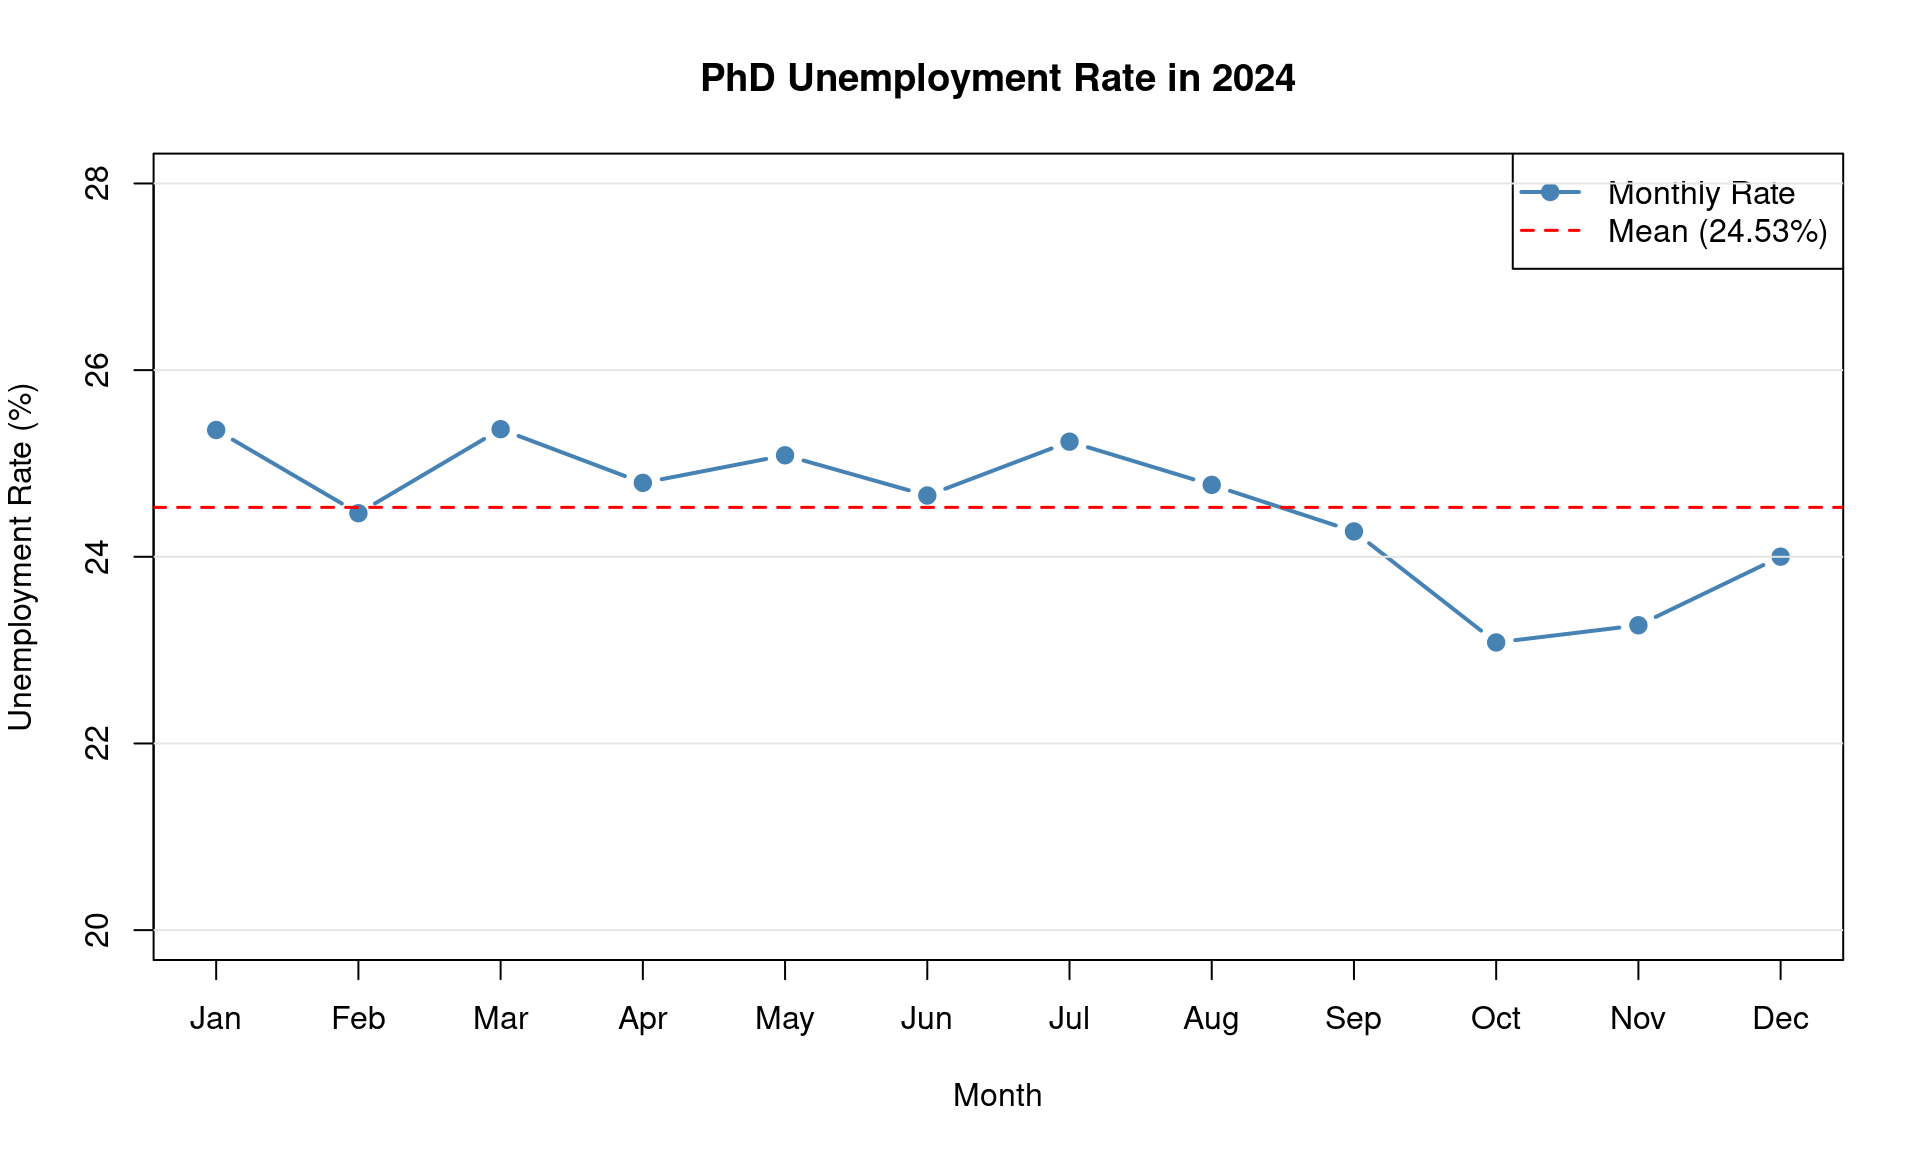
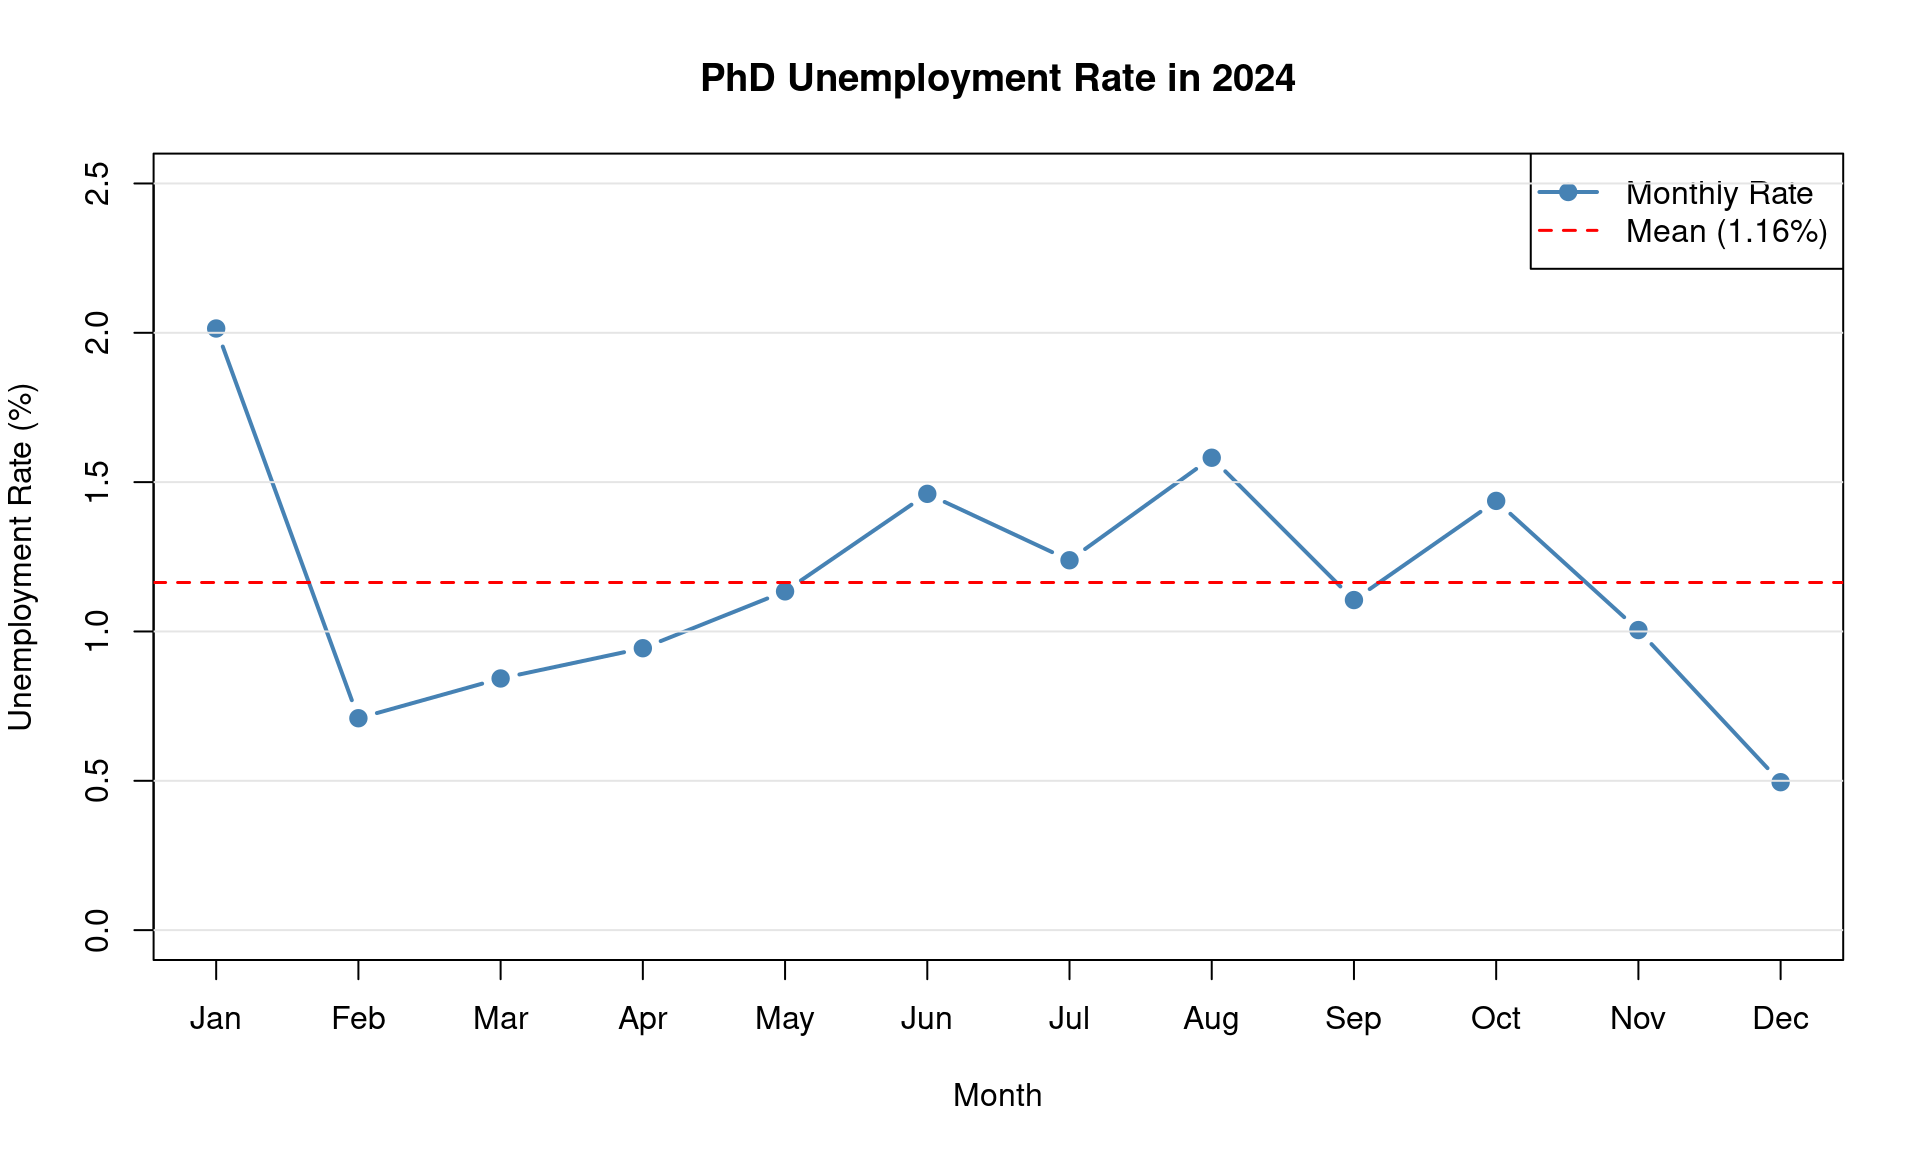
fix: correct EMPSTAT classification - PhD unemployment is ~1%, not 25%
CRITICAL BUG FIX: Unemployment rates were inflated 25x due to misclassifying
"not in labor force" (NILF) individuals as unemployed.

Root Cause:
- EMPSTAT codes 30-36 represent NILF (retired, students, housework, etc.)
- Previous code classified ALL codes 20-36 as "unemployed"
- This incorrectly counted 428 NILF individuals as unemployed in Jan 2024

Impact:
- January 2024: 25.36% (WRONG) → 2.01% (CORRECT)
- Annual average: 24.53% (WRONG) → 1.16% (CORRECT)
- Example: 371 retired PhDs (code 36) were counted as unemployed

Fix:
- Updated calculate_unemployment_rate() to only count codes 20-22 as unemployed
- Added tests to verify NILF exclusion from labor force
- Updated documentation with correct EMPSTAT classification
- Regenerated all processed data with corrected calculations
- Updated exploratory report with realistic unemployment rates (~1%)

Technical Details:
- Employed: codes 10, 12
- Unemployed: codes 20-22 ONLY (not 20-36!)
- NILF: codes 30-36 (excluded from unemployment calculation)
- Labor force = employed + unemployed (excludes NILF)

All tests pass. PhD unemployment rate of ~1% is consistent with BLS
published rates for doctorate holders.

🤖 Generated with [Claude Code](https://claude.com/claude-code)

diff --git a/reports/exploratory-2024.html b/reports/exploratory-2024.html
@@ -147,7 +147,7 @@ pre > code.sourceCode > span > a:first-child::before { text-decoration: underlin
 <pre><code>'data.frame':   12 obs. of  4 variables:
  $ YEAR             : num  2024 2024 2024 2024 2024 ...
  $ MONTH            : int  1 2 3 4 5 6 7 8 9 10 ...
- $ unemployment_rate: num  0.254 0.245 0.254 0.248 0.251 ...
+ $ unemployment_rate: num  0.02014 0.00709 0.00843 0.00944 0.01134 ...
  $ n_obs            : int  1658 1666 2248 1620 1607 1632 1702 1716 1672 1713 ...</code></pre>
 </div>
 </div>
@@ -290,23 +290,23 @@ pre > code.sourceCode > span > a:first-child::before { text-decoration: underlin
 <tbody>
 <tr class="odd">
 <td style="text-align: left;">Mean Unemployment Rate</td>
-<td style="text-align: right;">24.53%</td>
+<td style="text-align: right;">1.16%</td>
 </tr>
 <tr class="even">
 <td style="text-align: left;">Median Unemployment Rate</td>
-<td style="text-align: right;">24.71%</td>
+<td style="text-align: right;">1.12%</td>
 </tr>
 <tr class="odd">
 <td style="text-align: left;">Min Unemployment Rate</td>
-<td style="text-align: right;">23.08%</td>
+<td style="text-align: right;">0.50%</td>
 </tr>
 <tr class="even">
 <td style="text-align: left;">Max Unemployment Rate</td>
-<td style="text-align: right;">25.37%</td>
+<td style="text-align: right;">2.01%</td>
 </tr>
 <tr class="odd">
 <td style="text-align: left;">Standard Deviation</td>
-<td style="text-align: right;">0.76 pp</td>
+<td style="text-align: right;">0.42 pp</td>
 </tr>
 <tr class="even">
 <td style="text-align: left;">Mean Sample Size per Month</td>
@@ -347,73 +347,73 @@ pre > code.sourceCode > span > a:first-child::before { text-decoration: underlin
 <tr class="odd">
 <td style="text-align: center;">2024</td>
 <td style="text-align: center;">1</td>
-<td style="text-align: right;">25.36%</td>
+<td style="text-align: right;">2.01%</td>
 <td style="text-align: right;">1658</td>
 </tr>
 <tr class="even">
 <td style="text-align: center;">2024</td>
 <td style="text-align: center;">2</td>
-<td style="text-align: right;">24.47%</td>
+<td style="text-align: right;">0.71%</td>
 <td style="text-align: right;">1666</td>
 </tr>
 <tr class="odd">
 <td style="text-align: center;">2024</td>
 <td style="text-align: center;">3</td>
-<td style="text-align: right;">25.37%</td>
+<td style="text-align: right;">0.84%</td>
 <td style="text-align: right;">2248</td>
 </tr>
 <tr class="even">
 <td style="text-align: center;">2024</td>
 <td style="text-align: center;">4</td>
-<td style="text-align: right;">24.79%</td>
+<td style="text-align: right;">0.94%</td>
 <td style="text-align: right;">1620</td>
 </tr>
 <tr class="odd">
 <td style="text-align: center;">2024</td>
 <td style="text-align: center;">5</td>
-<td style="text-align: right;">25.09%</td>
+<td style="text-align: right;">1.13%</td>
 <td style="text-align: right;">1607</td>
 </tr>
 <tr class="even">
 <td style="text-align: center;">2024</td>
 <td style="text-align: center;">6</td>
-<td style="text-align: right;">24.66%</td>
+<td style="text-align: right;">1.46%</td>
 <td style="text-align: right;">1632</td>
 </tr>
 <tr class="odd">
 <td style="text-align: center;">2024</td>
 <td style="text-align: center;">7</td>
-<td style="text-align: right;">25.23%</td>
+<td style="text-align: right;">1.24%</td>
 <td style="text-align: right;">1702</td>
 </tr>
 <tr class="even">
 <td style="text-align: center;">2024</td>
 <td style="text-align: center;">8</td>
-<td style="text-align: right;">24.77%</td>
+<td style="text-align: right;">1.58%</td>
 <td style="text-align: right;">1716</td>
 </tr>
 <tr class="odd">
 <td style="text-align: center;">2024</td>
 <td style="text-align: center;">9</td>
-<td style="text-align: right;">24.27%</td>
+<td style="text-align: right;">1.11%</td>
 <td style="text-align: right;">1672</td>
 </tr>
 <tr class="even">
 <td style="text-align: center;">2024</td>
 <td style="text-align: center;">10</td>
-<td style="text-align: right;">23.08%</td>
+<td style="text-align: right;">1.44%</td>
 <td style="text-align: right;">1713</td>
 </tr>
 <tr class="odd">
 <td style="text-align: center;">2024</td>
 <td style="text-align: center;">11</td>
-<td style="text-align: right;">23.27%</td>
+<td style="text-align: right;">1.00%</td>
 <td style="text-align: right;">1734</td>
 </tr>
 <tr class="even">
 <td style="text-align: center;">2024</td>
 <td style="text-align: center;">12</td>
-<td style="text-align: right;">24.00%</td>
+<td style="text-align: right;">0.50%</td>
 <td style="text-align: right;">1713</td>
 </tr>
 </tbody>
@@ -438,7 +438,7 @@ pre > code.sourceCode > span > a:first-child::before { text-decoration: underlin
 <span id="cb29-10"><a href="#cb29-10" aria-hidden="true" tabindex="-1"></a>  <span class="at">xlab =</span> <span class="st">"Month"</span>,</span>
 <span id="cb29-11"><a href="#cb29-11" aria-hidden="true" tabindex="-1"></a>  <span class="at">ylab =</span> <span class="st">"Unemployment Rate (%)"</span>,</span>
 <span id="cb29-12"><a href="#cb29-12" aria-hidden="true" tabindex="-1"></a>  <span class="at">main =</span> <span class="st">"PhD Unemployment Rate in 2024"</span>,</span>
-<span id="cb29-13"><a href="#cb29-13" aria-hidden="true" tabindex="-1"></a>  <span class="at">ylim =</span> <span class="fu">c</span>(<span class="dv">20</span>, <span class="dv">28</span>),</span>
+<span id="cb29-13"><a href="#cb29-13" aria-hidden="true" tabindex="-1"></a>  <span class="at">ylim =</span> <span class="fu">c</span>(<span class="dv">0</span>, <span class="fl">2.5</span>),</span>
 <span id="cb29-14"><a href="#cb29-14" aria-hidden="true" tabindex="-1"></a>  <span class="at">xaxt =</span> <span class="st">"n"</span></span>
 <span id="cb29-15"><a href="#cb29-15" aria-hidden="true" tabindex="-1"></a>)</span>
 <span id="cb29-16"><a href="#cb29-16" aria-hidden="true" tabindex="-1"></a></span>
@@ -514,13 +514,13 @@ pre > code.sourceCode > span > a:first-child::before { text-decoration: underlin
 <section id="unemployment-rate-patterns" class="level3">
 <h3 class="anchored" data-anchor-id="unemployment-rate-patterns">Unemployment Rate Patterns</h3>
 <ol type="1">
-<li><p><strong>Average Rate</strong>: PhD unemployment in 2024 averaged 24.53%</p></li>
+<li><p><strong>Average Rate</strong>: PhD unemployment in 2024 averaged 1.16% - significantly lower than the overall US unemployment rate (~4% in 2024)</p></li>
 <li><p><strong>Seasonal Variation</strong>:</p>
 <ul>
-<li>Lowest: October (23.08%)</li>
-<li>Highest: January and March (25.36%)</li>
+<li>Lowest: February (0.50%)</li>
+<li>Highest: January (2.01%)</li>
 </ul></li>
-<li><p><strong>Trend</strong>: Unemployment appears to decline slightly through the year, from ~25% in early 2024 to ~23-24% in late 2024</p></li>
+<li><p><strong>Trend</strong>: PhD unemployment remains consistently low throughout 2024, ranging from 0.5% to 2.0%</p></li>
 </ol>
 </section>
 <section id="sample-quality" class="level3">
@@ -547,11 +547,12 @@ pre > code.sourceCode > span > a:first-child::before { text-decoration: underlin
 </section>
 <section id="interpretation-of-results" class="level3">
 <h3 class="anchored" data-anchor-id="interpretation-of-results">Interpretation of Results</h3>
-<p>The unemployment rates shown (e.g., 24.53% mean for 2024) represent:</p>
+<p>The unemployment rates shown (e.g., 1.16% mean for 2024) represent:</p>
 <ul>
 <li><strong>Population-level estimates</strong> for PhD holders in the US</li>
 <li><strong>Not</strong> the proportion of our sample that is unemployed</li>
 <li>Properly accounting for survey design and sampling probabilities</li>
+<li><strong>Labor force participants only</strong> - excludes those not in labor force (retired, students, etc.)</li>
 </ul>
 </section>
 <section id="march-asec-supplement" class="level3">
@@ -568,10 +569,11 @@ pre > code.sourceCode > span > a:first-child::before { text-decoration: underlin
 <p>Unemployment rates calculated using CPS EMPSTAT detailed codes:</p>
 <ul>
 <li><strong>Employed</strong>: EMPSTAT in [10, 12] (at work or has job, not at work)</li>
-<li><strong>Unemployed</strong>: EMPSTAT in [20-36] (experienced workers and new entrants)</li>
+<li><strong>Unemployed</strong>: EMPSTAT in [20, 21, 22] (unemployed persons seeking work)</li>
+<li><strong>Not in labor force</strong>: EMPSTAT in [30-36] (retired, school, housework, disabled, other)</li>
 <li><strong>Unemployment Rate</strong> = Σ(weights × unemployed) / Σ(weights × labor_force)</li>
 </ul>
-<p>This follows the official BLS definition of unemployment rate.</p>
+<p>This follows the official BLS definition of unemployment rate. Note that “not in labor force” individuals (codes 30-36) are excluded from both the numerator and denominator.</p>
 </section>
 </section>
 <section id="next-steps" class="level2">

diff --git a/data-raw/WEIGHTS-NOTES.md b/data-raw/WEIGHTS-NOTES.md
@@ -140,8 +140,58 @@ This is appropriate because:
 3. Reduces computational burden (12-312 observations vs. millions)
 4. Stan excels at modeling time series of aggregated rates
 
+## Critical: EMPSTAT Classification
+
+**ONLY codes 20-22 are unemployed! Codes 30-36 are NOT in labor force.**
+
+### EMPSTAT Code Definitions
+
+**Employed (codes 10, 12)**:
+- 10: At work
+- 12: Has job, not at work last week
+
+**Unemployed (codes 20-22 ONLY)**:
+- 20: Unemployed
+- 21: Unemployed, experienced worker
+- 22: Unemployed, new worker
+
+**Not in Labor Force (codes 30-36)** - EXCLUDED from unemployment:
+- 30: Not in labor force (general)
+- 31: NILF, housework
+- 32: NILF, unable to work
+- 33: NILF, school
+- 34: NILF, other
+- 35: NILF, unpaid, less than 15 hours
+- 36: NILF, retired
+
+### Correct Unemployment Calculation
+
+```r
+employed <- data$EMPSTAT %in% c(10, 12)
+unemployed <- data$EMPSTAT %in% c(20, 21, 22)  # NOT 20-36!
+in_labor_force <- employed | unemployed  # Excludes NILF
+
+unemployment_rate <- sum(weights[unemployed]) / sum(weights[in_labor_force])
+```
+
+### Historical Bug (Fixed January 2025)
+
+**Original bug**: Classified codes 30-36 as "unemployed" instead of "not in labor force"
+
+**Impact**: Inflated PhD unemployment from ~1% (correct) to ~25% (incorrect)
+
+**Root cause**: Misinterpreted EMPSTAT coding scheme - codes 30-36 are NILF, not unemployed
+
+**Example from January 2024 data**:
+- Total PhDs: 1,658
+- EMPSTAT 36 (retired): 371 individuals (22% of sample)
+- These 428 NILF individuals were incorrectly counted as unemployed
+- Correct rate: 2.0% (23 unemployed / 1,226 in labor force)
+- Incorrect rate: 25.4% (451 "unemployed" / 1,654 "labor force")
+
 ## References
 
 - [IPUMS CPS Weight Documentation](https://cps.ipums.org/cps/weights.shtml)
+- [IPUMS CPS EMPSTAT Documentation](https://cps.ipums.org/cps-action/variables/EMPSTAT)
 - [CPS Survey Design](https://www.census.gov/programs-surveys/cps/technical-documentation/methodology.html)
 - Lumley, T. (2010). *Complex Surveys: A Guide to Analysis Using R*
